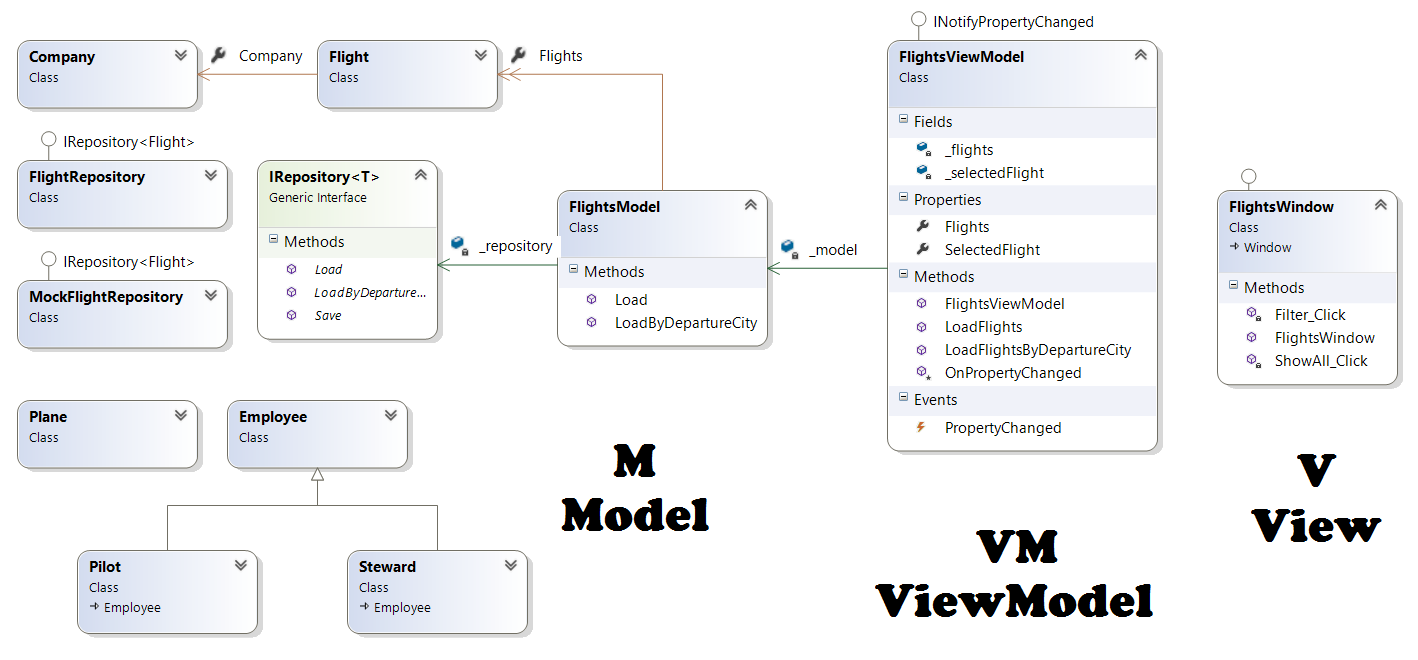
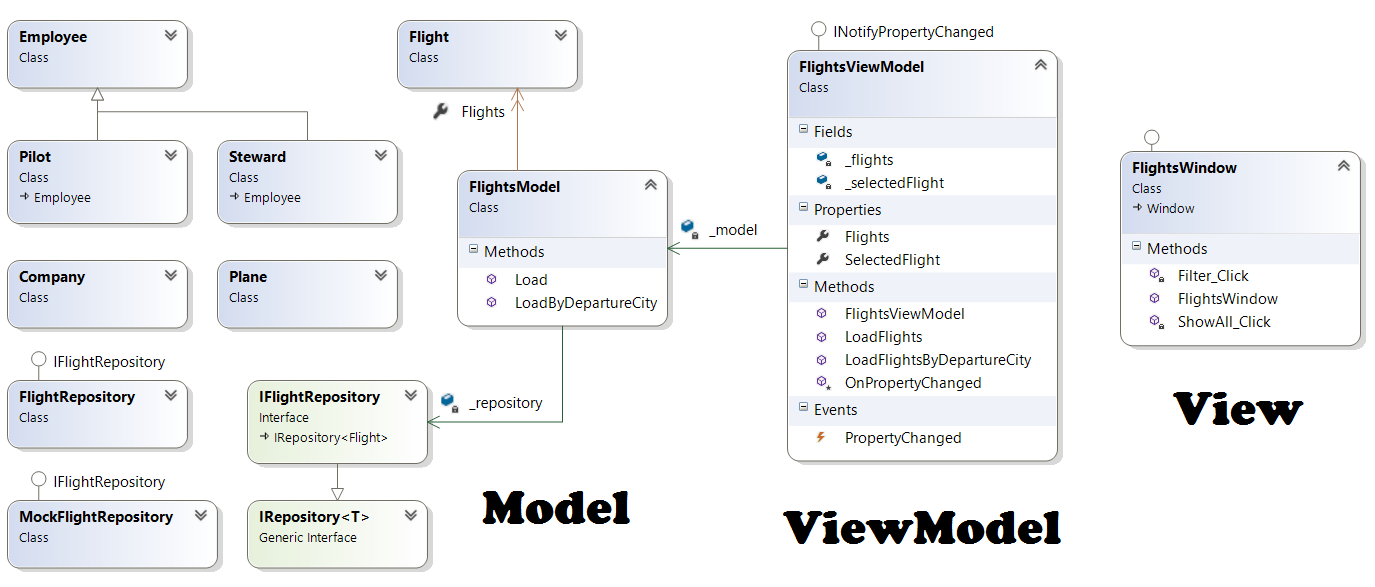
make final corrections in AirportApp versions

diff --git a/AirportApp/AirportApp/FlightsForm.cs b/AirportApp/AirportApp/FlightsForm.cs
@@ -9,7 +9,7 @@ namespace AirportApp
     public partial class FlightsForm : Form
     {
         // здесь можем легко подменять создаваемый объект, и вся логика приложения будет меняться
-        private readonly IRepository<Flight> _repository = new MockFlightRepository();
+        private readonly IFlightRepository _repository = new MockFlightRepository();
 
         public FlightsForm()
         {
@@ -37,13 +37,14 @@ namespace AirportApp
             var flights = _repository.Load();
 
             dataGridFlights.Rows.Clear();
-            dataGridFlights.ColumnCount = 2;
+            dataGridFlights.ColumnCount = 3;
             dataGridFlights.RowCount = flights.Count;
 
             for (int i = 0; i < flights.Count; i++)
             {
                 dataGridFlights.Rows[i].Cells[0].Value = flights[i].Code;
                 dataGridFlights.Rows[i].Cells[1].Value = flights[i].DepartureCity;
+                dataGridFlights.Rows[i].Cells[2].Value = flights[i].ArrivalCity;
             }
         }
 
@@ -69,13 +70,14 @@ namespace AirportApp
             var flights = _repository.LoadByDepartureCity("Donetsk");
 
             dataGridFlights.Rows.Clear();
-            dataGridFlights.ColumnCount = 2;
+            dataGridFlights.ColumnCount = 3;
             dataGridFlights.RowCount = flights.Count;
 
             for (int i = 0; i < flights.Count; i++)
             {
                 dataGridFlights.Rows[i].Cells[0].Value = flights[i].Code;
                 dataGridFlights.Rows[i].Cells[1].Value = flights[i].DepartureCity;
+                dataGridFlights.Rows[i].Cells[2].Value = flights[i].ArrivalCity;
             }
         }
 

diff --git a/AirportAppMVVM/Model/Repository/FlightRepository.cs b/AirportAppMVVM/Model/Repository/FlightRepository.cs
@@ -4,7 +4,7 @@ using System.Collections.Generic;
 
 namespace AirportAppMVVM.Model.Repository
 {
-    public class FlightRepository : IRepository<Flight>
+    public class FlightRepository : IFlightRepository
     {
         public List<Flight> Load()
         {
@@ -17,10 +17,13 @@ namespace AirportAppMVVM.Model.Repository
 
         public List<Flight> LoadByDepartureCity(string city)
         {
-            var flights = Load();
+            return Load().Where(f => f.DepartureCity == city).ToList();
+        }
 
-            return flights.Where(f => f.DepartureCity == city).ToList();
-        } 
+        public List<Flight> LoadByArrivalCity(string city)
+        {
+            return Load().Where(f => f.ArrivalCity == city).ToList();
+        }
 
         public void Save()
         {

diff --git a/AirportAppMVC/Model/Repository/FlightRepository.cs b/AirportAppMVC/Model/Repository/FlightRepository.cs
@@ -4,7 +4,7 @@ using System.Collections.Generic;
 
 namespace AirportAppMVC.Model.Repository
 {
-    public class FlightRepository : IRepository<Flight>
+    public class FlightRepository : IFlightRepository
     {
         public List<Flight> Load()
         {
@@ -17,10 +17,13 @@ namespace AirportAppMVC.Model.Repository
 
         public List<Flight> LoadByDepartureCity(string city)
         {
-            var flights = Load();
+            return Load().Where(f => f.DepartureCity == city).ToList();
+        }
 
-            return flights.Where(f => f.DepartureCity == city).ToList();
-        } 
+        public List<Flight> LoadByArrivalCity(string city)
+        {
+            return Load().Where(f => f.ArrivalCity == city).ToList();
+        }
 
         public void Save()
         {

diff --git a/AirportAppMVP/Model/Repository/FlightRepository.cs b/AirportAppMVP/Model/Repository/FlightRepository.cs
@@ -4,7 +4,7 @@ using System.Collections.Generic;
 
 namespace AirportAppMVP.Model.Repository
 {
-    public class FlightRepository : IRepository<Flight>
+    public class FlightRepository : IFlightRepository
     {
         public List<Flight> Load()
         {
@@ -17,10 +17,13 @@ namespace AirportAppMVP.Model.Repository
 
         public List<Flight> LoadByDepartureCity(string city)
         {
-            var flights = Load();
+            return Load().Where(f => f.DepartureCity == city).ToList();
+        }
 
-            return flights.Where(f => f.DepartureCity == city).ToList();
-        } 
+        public List<Flight> LoadByArrivalCity(string city)
+        {
+            return Load().Where(f => f.ArrivalCity == city).ToList();
+        }
 
         public void Save()
         {

diff --git a/AirportAppMVVM/Model/Repository/MockFlightRepository.cs b/AirportAppMVVM/Model/Repository/MockFlightRepository.cs
@@ -4,7 +4,7 @@ using System.Linq;
 
 namespace AirportAppMVVM.Model.Repository
 {
-    public class MockFlightRepository : IRepository<Flight>
+    public class MockFlightRepository : IFlightRepository
     {
         public List<Flight> Load()
         {
@@ -21,8 +21,12 @@ namespace AirportAppMVVM.Model.Repository
 
         public List<Flight> LoadByDepartureCity(string city)
         {
-            var flights = Load();
-            return flights.Where(f => f.DepartureCity == city).ToList();
+            return Load().Where(f => f.DepartureCity == city).ToList();
+        }
+
+        public List<Flight> LoadByArrivalCity(string city)
+        {
+            return Load().Where(f => f.ArrivalCity == city).ToList();
         }
 
         public void Save()

diff --git a/AirportAppMVC/Model/Repository/MockFlightRepository.cs b/AirportAppMVC/Model/Repository/MockFlightRepository.cs
@@ -4,7 +4,7 @@ using System.Linq;
 
 namespace AirportAppMVC.Model.Repository
 {
-    public class MockFlightRepository : IRepository<Flight>
+    public class MockFlightRepository : IFlightRepository
     {
         public List<Flight> Load()
         {
@@ -21,8 +21,12 @@ namespace AirportAppMVC.Model.Repository
 
         public List<Flight> LoadByDepartureCity(string city)
         {
-            var flights = Load();
-            return flights.Where(f => f.DepartureCity == city).ToList();
+            return Load().Where(f => f.DepartureCity == city).ToList();
+        }
+
+        public List<Flight> LoadByArrivalCity(string city)
+        {
+            return Load().Where(f => f.ArrivalCity == city).ToList();
         }
 
         public void Save()

diff --git a/AirportAppMVVM/Model/Repository/IRepository.cs b/AirportAppMVVM/Model/Repository/IRepository.cs
@@ -5,19 +5,6 @@ namespace AirportAppMVVM.Model.Repository
     public interface IRepository<T>
     {
         List<T> Load();
-        List<T> LoadByDepartureCity(string city);
         void Save();
     }
 }
-
-// Пример generic-класса.
-// Похоже на шаблоны в С++, но реализовано совсем иначе 
-// (в .NET это не просто "большой макрос", но это отдельный тип)
-//
-//public class MyList<T> where T : Company      // можно вводить ограничения на тип T
-//{
-//    public void Add(T elem)
-//    {
-//        elem.Name = "vasya"; 
-//    }
-//}

diff --git a/AirportAppMVC/Model/Repository/IRepository.cs b/AirportAppMVC/Model/Repository/IRepository.cs
@@ -5,19 +5,6 @@ namespace AirportAppMVC.Model.Repository
     public interface IRepository<T>
     {
         List<T> Load();
-        List<T> LoadByDepartureCity(string city);
         void Save();
     }
 }
-
-// Пример generic-класса.
-// Похоже на шаблоны в С++, но реализовано совсем иначе 
-// (в .NET это не просто "большой макрос", но это отдельный тип)
-//
-//public class MyList<T> where T : Company      // можно вводить ограничения на тип T
-//{
-//    public void Add(T elem)
-//    {
-//        elem.Name = "vasya"; 
-//    }
-//}

diff --git a/AirportAppMVP/Model/Repository/IRepository.cs b/AirportAppMVP/Model/Repository/IRepository.cs
@@ -5,19 +5,6 @@ namespace AirportAppMVP.Model.Repository
     public interface IRepository<T>
     {
         List<T> Load();
-        List<T> LoadByDepartureCity(string city);
         void Save();
     }
 }
-
-// Пример generic-класса.
-// Похоже на шаблоны в С++, но реализовано совсем иначе 
-// (в .NET это не просто "большой макрос", но это отдельный тип)
-//
-//public class MyList<T> where T : Company      // можно вводить ограничения на тип T
-//{
-//    public void Add(T elem)
-//    {
-//        elem.Name = "vasya"; 
-//    }
-//}

diff --git a/AirportApp/AirportApp/Repository/FlightRepository.cs b/AirportApp/AirportApp/Repository/FlightRepository.cs
@@ -3,7 +3,7 @@ using System.Collections.Generic;
 
 namespace AirportApp.Core
 {
-    public class FlightRepository : IRepository<Flight>
+    public class FlightRepository : IFlightRepository
     {
         public List<Flight> Load()
         {
@@ -19,7 +19,14 @@ namespace AirportApp.Core
             var flights = Load();
 
             return flights.Where(f => f.DepartureCity == city).ToList();
-        } 
+        }
+
+        public List<Flight> LoadByArrivalCity(string city)
+        {
+            var flights = Load();
+
+            return flights.Where(f => f.ArrivalCity == city).ToList();
+        }
 
         public void Save()
         {

diff --git a/AirportAppMVC/Model/FlightsModel.cs b/AirportAppMVC/Model/FlightsModel.cs
@@ -7,7 +7,7 @@ namespace AirportAppMVC.Model
 {
     public class FlightsModel
     {
-        IRepository<Flight> _repository = new MockFlightRepository();
+        IFlightRepository _repository = new MockFlightRepository();
         public List<Flight> Flights { get; set; }
 
         // событие, которое будет поднято при любой новой загрузке рейсов

diff --git a/AirportAppMVVM/Model/Repository/IFlightRepository.cs b/AirportAppMVVM/Model/Repository/IFlightRepository.cs
@@ -1,0 +1,11 @@
+using AirportAppMVVM.Model.Domain;
+using System.Collections.Generic;
+
+namespace AirportAppMVVM.Model.Repository
+{
+    public interface IFlightRepository : IRepository<Flight>
+    {
+        List<Flight> LoadByDepartureCity(string city);
+        List<Flight> LoadByArrivalCity(string city);
+    }
+}
